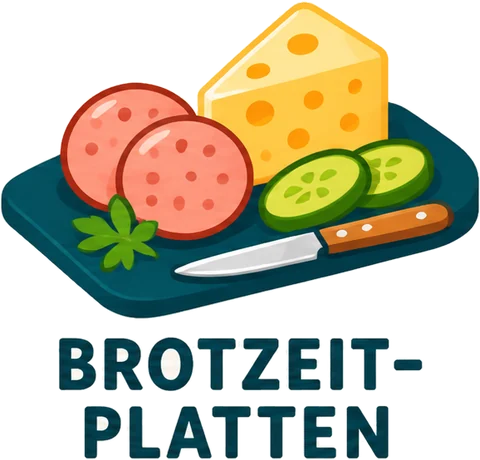
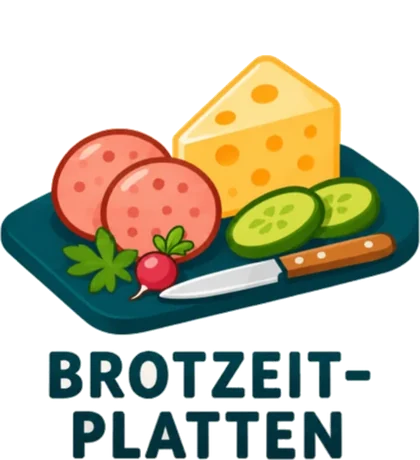
Startseite: neue Bilder für Leberkäs-Weckla und Brotzeitplatten
Claude-Session: https://claude.ai/code/session_01ML14UvAViDyJv3Sy3Ftcsk

diff --git a/index.html b/index.html
@@ -80,9 +80,9 @@
 
       <ul class="bissen">
         <li><img src="bilder/schaeufele-weckla.webp?v=2" width="360" height="460" loading="lazy" alt="Schäufele-Weckla"></li>
-        <li><img src="bilder/leberkaes-weckla.webp?v=2" width="342" height="460" loading="lazy" alt="Leberkäs-Weckla"></li>
+        <li><img src="bilder/leberkaes-weckla.webp?v=3" width="366" height="460" loading="lazy" alt="Leberkäs-Weckla"></li>
         <li><img src="bilder/suppen.webp?v=2" width="327" height="460" loading="lazy" alt="Suppen"></li>
-        <li><img src="bilder/brotzeitplatten.webp?v=2" width="480" height="460" loading="lazy" alt="Brotzeitplatten"></li>
+        <li><img src="bilder/brotzeitplatten.webp?v=4" width="420" height="460" loading="lazy" alt="Brotzeitplatten"></li>
       </ul>
     </div>
 
